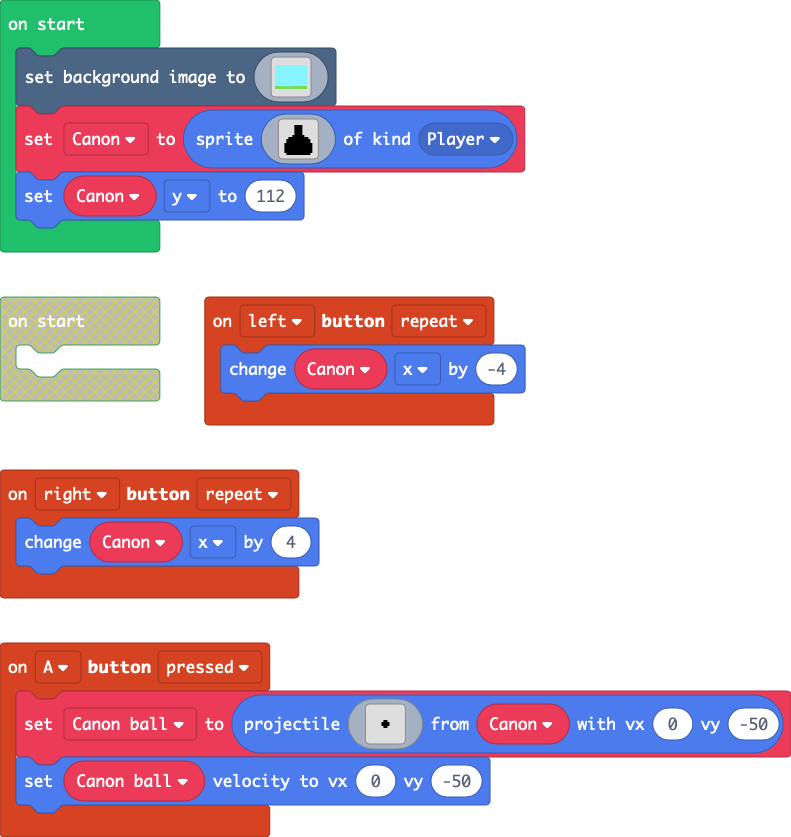
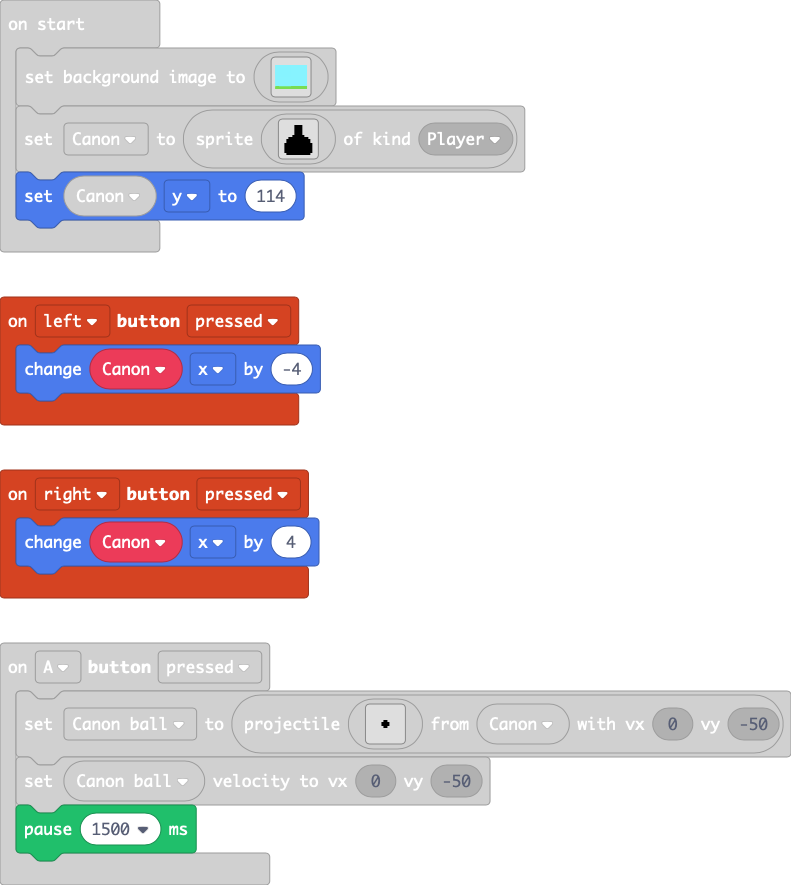
I've refined the canon's functionality and ha a go at a helicopter

diff --git a/main.ts b/main.ts
@@ -1,5 +1,29 @@
+namespace myTiles {
+    //% blockIdentity=images._tile
+    export const tile0 = img`
+. . . . . . . . . . . . . . . . 
+. . . . . . . . . . . . . . . . 
+. . . . . . . . . . . . . . . . 
+. . . . . . . . . . . . . . . . 
+. . . . . . . . . . . . . . . . 
+. . . . . . . . . . . . . . . . 
+. . . . . . . . . . . . . . . . 
+. . . . . . . . . . . . . . . . 
+. . . . . . . . . . . . . . . . 
+. . . . . . . . . . . . . . . . 
+. . . . . . . . . . . . . . . . 
+. . . . . . . . . . . . . . . . 
+. . . . . . . . . . . . . . . . 
+. . . . . . . . . . . . . . . . 
+. . . . . . . . . . . . . . . . 
+. . . . . . . . . . . . . . . . 
+`
+}
 controller.right.onEvent(ControllerButtonEvent.Repeated, function () {
     Canon.x += 4
+})
+controller.left.onEvent(ControllerButtonEvent.Pressed, function () {
+    Canon.x += -4
 })
 controller.A.onEvent(ControllerButtonEvent.Pressed, function () {
     Canon_ball = sprites.createProjectileFromSprite(img`
@@ -21,6 +45,10 @@ controller.A.onEvent(ControllerButtonEvent.Pressed, function () {
 . . . . . . . . . . . . . . . . 
 `, Canon, 0, -50)
     Canon_ball.setVelocity(0, -50)
+    pause(1500)
+})
+controller.right.onEvent(ControllerButtonEvent.Pressed, function () {
+    Canon.x += 4
 })
 controller.left.onEvent(ControllerButtonEvent.Repeated, function () {
     Canon.x += -4
@@ -167,4 +195,4 @@ Canon = sprites.create(img`
 . f f f f f f f f f f f f f f . 
 . . f f f f f f f f f f f f . . 
 `, SpriteKind.Player)
-Canon.y = 112
+Canon.y = 114
